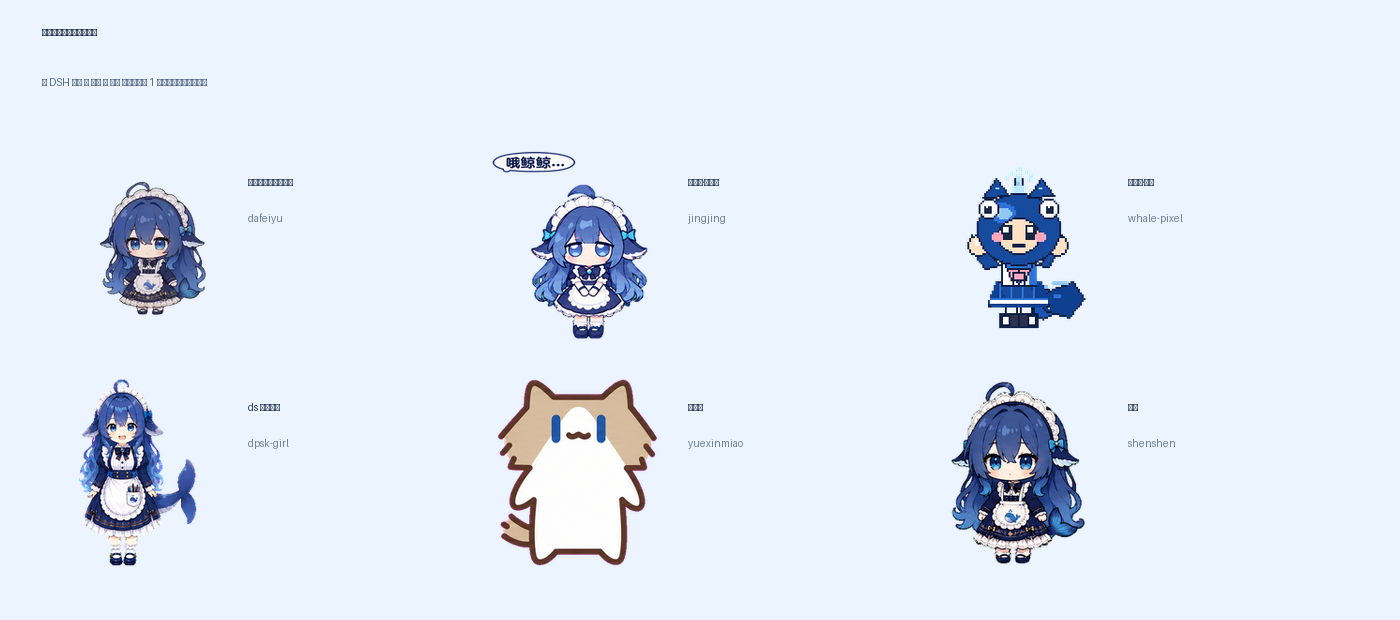
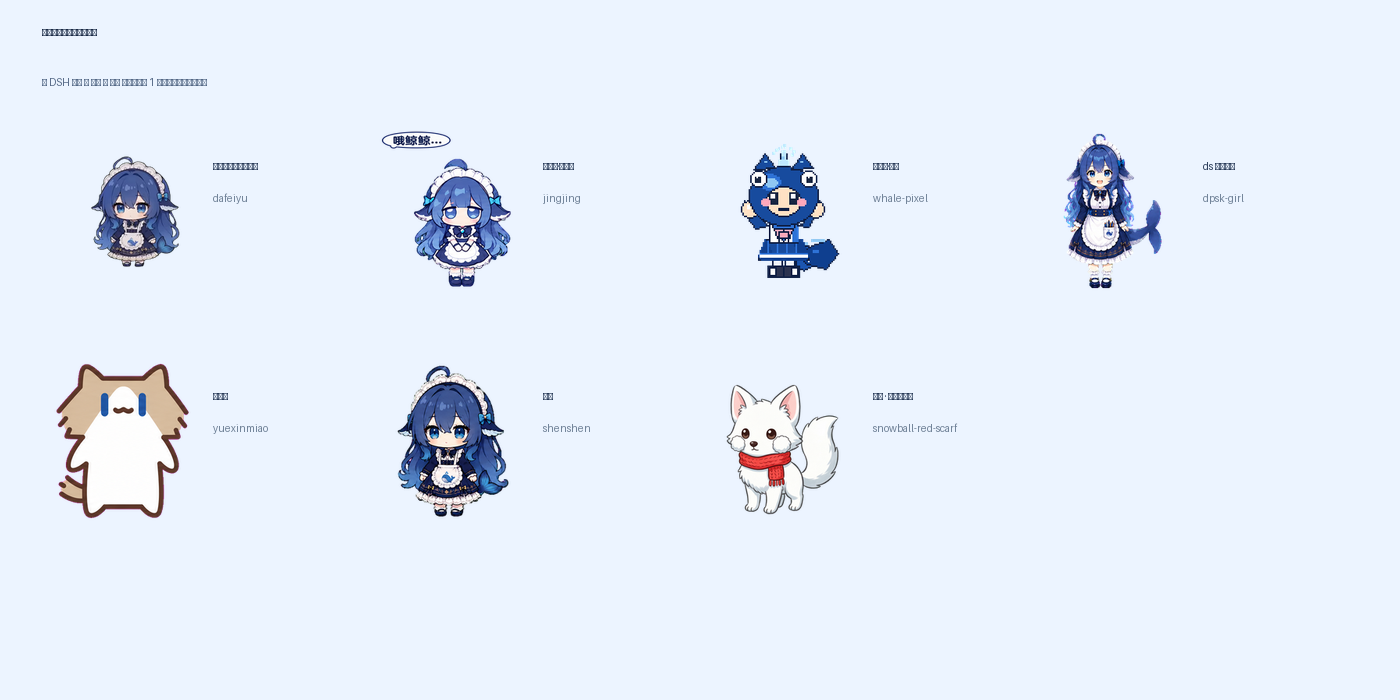
Add snowball-red-scarf AI-assisted community pack

diff --git a/pets/snowball-red-scarf/PROMPTS.md b/pets/snowball-red-scarf/PROMPTS.md
@@ -1,0 +1,39 @@
+# Generation prompts
+
+Model: qwen-image-2.0 · seed: 73421 · 1024×1024 · prompt extension disabled.
+
+## idle
+
+Original desktop pet character, a very cute chibi white arctic fox wearing a bright crimson red knitted scarf with two short ends, large triangular ears with pale pink interiors, fluffy white cheeks, round glossy dark brown eyes, tiny dark nose, short rounded legs and large fluffy white tail curving to its right. Clean charcoal gray outline, flat warm-white coloring with pale cool gray shading, polished Japanese kawaii game sprite illustration. Full body, front three-quarter view, relaxed standing idle pose, both paws down. One single character centered with generous empty margins, no ground shadow. Uniform solid vivid green #00FF00 background for chroma key. No green anywhere on the fox. No text, no lettering, no logo, no panels, no grid. Consistent simple readable silhouette.
+
+## run_a
+
+Original desktop pet character, a very cute chibi white arctic fox wearing a bright crimson red knitted scarf with two short ends, large triangular ears with pale pink interiors, fluffy white cheeks, round glossy dark brown eyes, tiny dark nose, short rounded legs and large fluffy white tail. Clean charcoal gray outline, flat warm-white coloring with pale cool gray shading, polished Japanese kawaii game sprite illustration. Full body,strict side profile facing RIGHT, running stride with front legs reaching forward and rear legs reaching backward, tail streaming behind toward left. One single character centered with generous empty margins, no ground shadow. Uniform solid vivid green #00FF00 background for chroma key. No green anywhere on the fox. No text, no lettering, no logo, no panels, no grid. Consistent simple readable silhouette.
+
+## run_b
+
+Original desktop pet character, a very cute chibi white arctic fox wearing a bright crimson red knitted scarf with two short ends, large triangular ears with pale pink interiors, fluffy white cheeks, round glossy dark brown eyes, tiny dark nose, short rounded legs and large fluffy white tail. Clean charcoal gray outline, flat warm-white coloring with pale cool gray shading, polished Japanese kawaii game sprite illustration. Full body,strict side profile facing RIGHT, running stride with front legs tucked under chest and rear legs tucked beneath body, tail streaming behind toward left. One single character centered with generous empty margins, no ground shadow. Uniform solid vivid green #00FF00 background for chroma key. No green anywhere on the fox. No text, no lettering, no logo, no panels, no grid. Consistent simple readable silhouette.
+
+## wave
+
+Original desktop pet character, a very cute chibi white arctic fox wearing a bright crimson red knitted scarf with two short ends, large triangular ears with pale pink interiors, fluffy white cheeks, round glossy dark brown eyes, tiny dark nose, short rounded legs and large fluffy white tail. Clean charcoal gray outline, flat warm-white coloring with pale cool gray shading, polished Japanese kawaii game sprite illustration. Full body,front three-quarter view, cheerful greeting pose, standing on hind legs with one front paw raised beside cheek to wave hello, smile. One single character centered with generous empty margins, no ground shadow. Uniform solid vivid green #00FF00 background for chroma key. No green anywhere on the fox. No text, no lettering, no logo, no panels, no grid. Consistent simple readable silhouette.
+
+## jump
+
+Original desktop pet character, a very cute chibi white arctic fox wearing a bright crimson red knitted scarf with two short ends, large triangular ears with pale pink interiors, fluffy white cheeks, round glossy dark brown eyes, tiny dark nose, short rounded legs and large fluffy white tail. Clean charcoal gray outline, flat warm-white coloring with pale cool gray shading, polished Japanese kawaii game sprite illustration. Full body,front three-quarter view, happy celebration leap with both front paws raised high, hind paws curled under, eyes closed joyfully. One single character centered with generous empty margins, no ground shadow. Uniform solid vivid green #00FF00 background for chroma key. No green anywhere on the fox. No text, no lettering, no logo, no panels, no grid. Consistent simple readable silhouette.
+
+## failed
+
+Original desktop pet character, a very cute chibi white arctic fox wearing a bright crimson red knitted scarf with two short ends, large triangular ears with pale pink interiors, fluffy white cheeks, round glossy dark brown eyes, tiny dark nose, short rounded legs and large fluffy white tail. Clean charcoal gray outline, flat warm-white coloring with pale cool gray shading, polished Japanese kawaii game sprite illustration. Full body,front three-quarter view, sitting sadly, head lowered slightly, ears softly drooped, eyes downcast, tail curled around feet. One single character centered with generous empty margins, no ground shadow. Uniform solid vivid green #00FF00 background for chroma key. No green anywhere on the fox. No text, no lettering, no logo, no panels, no grid. Consistent simple readable silhouette.
+
+## waiting
+
+Original desktop pet character, a very cute chibi white arctic fox wearing a bright crimson red knitted scarf with two short ends, large triangular ears with pale pink interiors, fluffy white cheeks, round glossy dark brown eyes, tiny dark nose, short rounded legs and large fluffy white tail. Clean charcoal gray outline, flat warm-white coloring with pale cool gray shading, polished Japanese kawaii game sprite illustration. Full body,front three-quarter view, sitting patiently upright with front paws together, eyes looking upward expectantly, tail wrapped beside body. One single character centered with generous empty margins, no ground shadow. Uniform solid vivid green #00FF00 background for chroma key. No green anywhere on the fox. No text, no lettering, no logo, no panels, no grid. Consistent simple readable silhouette.
+
+## working
+
+Original desktop pet character, a very cute chibi white arctic fox wearing a bright crimson red knitted scarf with two short ends, large triangular ears with pale pink interiors, fluffy white cheeks, round glossy dark brown eyes, tiny dark nose, short rounded legs and large fluffy white tail. Clean charcoal gray outline, flat warm-white coloring with pale cool gray shading, polished Japanese kawaii game sprite illustration. Full body,front three-quarter view, leaning forward focused, both front paws typing on a tiny dark gray laptop in front, eyes looking down at screen. One single character centered with generous empty margins, no ground shadow. Uniform solid vivid green #00FF00 background for chroma key. No green anywhere on the fox. No text, no lettering, no logo, no panels, no grid. Consistent simple readable silhouette.
+
+## review
+
+Original desktop pet character, a very cute chibi white arctic fox wearing a bright crimson red knitted scarf with two short ends, large triangular ears with pale pink interiors, fluffy white cheeks, round glossy dark brown eyes, tiny dark nose, short rounded legs and large fluffy white tail. Clean charcoal gray outline, flat warm-white coloring with pale cool gray shading, polished Japanese kawaii game sprite illustration. Full body,front three-quarter view, curious inspection pose, holding a small magnifying glass beside one eye, concentrating with head tilted. One single character centered with generous empty margins, no ground shadow. Uniform solid vivid green #00FF00 background for chroma key. No green anywhere on the fox. No text, no lettering, no logo, no panels, no grid. Consistent simple readable silhouette.

diff --git a/pets/snowball-red-scarf/NOTICE.md b/pets/snowball-red-scarf/NOTICE.md
@@ -1,0 +1,25 @@
+# 雪团 · 红围巾白狐
+
+原创、非官方 DSH 桌宠包，按用户「戴红围巾的白色小狐狸」描述制作。
+未使用第三方角色、商标、官方吉祥物或网络素材。
+
+## 来源和制作
+
+- 日期：2026-10-20。
+- 图像：通过本机 Bailian CLI 的 `bl image generate` 调用 `qwen-image-2.0`，尺寸 1024×1024，seed 73421，关闭提示词扩写。
+- 每个动作单独生成；向右跑有两个步态源图，向左跑由向右跑镜像。
+- 图集处理：绿幕去底与边缘去色、RGBA 透明、尺寸和基线对齐、呼吸/倾斜/弹跳等二维补间；不是逐帧重新生成的手绘动画。
+- 图集：1536×1872，8列×9行，单格192×208，有效帧数6,8,8,4,5,8,6,6,6，共57帧。
+- 清单骨架来自本地 DSH `tools/import-codex-pet.py`；行为和气泡为本包定制。
+- 完整生成提示词见 `PROMPTS.md`。
+
+## 许可说明
+
+本包适配配置、文案及可许可的原创素材贡献按随附 MIT License 发布，保留此来源说明。
+素材由 AI 生成，不保证具备独立著作权、排他性或在所有司法辖区获得同等保护；MIT 仅覆盖贡献者实际能够许可的权利，不覆盖模型、生成服务或任何第三方权利，也不取代生成服务适用条款。
+
+## 使用
+
+把目录放入 `~/.dsh-desktop-pet/pets/` 后，在 DSH 设置 → 桌宠 → 形象 → 刷新，选择「雪团 · 红围巾白狐」。
+点击挥手，拖动跳跃；待机20秒/35秒分别播放向右/向左跑动作，60秒挥手。
+跑步是本包帧动画，是否在桌面移动由宿主引擎控制。

diff --git a/THIRD_PARTY_NOTICES.md b/THIRD_PARTY_NOTICES.md
@@ -35,6 +35,13 @@
 - 原始鲸鱼娘形象「上善无形」；本版本由 Shenshen Pet contributors 制作；**非商业**，再分发须署名 + 相同方式共享。
 - 与 DeepSeek / OpenAI / 角色原权利方无隶属或背书关系。
 
+## 雪团 · 红围巾白狐（`pets/snowball-red-scarf/`）
+
+- 来源：本仓库新增原创 AI 辅助形象，按用户描述制作（未使用第三方角色/商标/网络素材）。
+- 图像：本机 Bailian CLI `bl image generate` 调用 `qwen-image-2.0` 生成，逐动作单图 + 绿幕去底/补间拼图集；完整提示词见包内 `PROMPTS.md`。
+- 许可：包内配置/文案/可许可的原创贡献为 MIT（见包内 LICENSE / NOTICE.md）。
+- **注意**：AI 生成素材的独立著作权存在不确定性；MIT 只覆盖贡献者实际能许可的部分，不覆盖模型/生成服务/第三方权利，也不保证排他性。公开发布/商用前请自行评估。
+
 ## 对下游使用者的要求
 
 1. **逐包看许可**：`dafeiyu` 与 `shenshen` 的素材是 **非商业**；其余 MIT 包仍可能涉及角色/IP 权利，商用前请自行确认。

diff --git a/README.md b/README.md
@@ -30,6 +30,7 @@
 | `dpsk-girl` | ds 鲸鱼女仆 | LINNoot/dsh-co-pet（MIT） |
 | `yuexinmiao` | 月薪喵 | LINNoot/dsh-co-pet（MIT） |
 | `shenshen` | 深深 | schrieeeffer/shenshen-codex-pet（视觉 CC BY-NC-SA 4.0） |
+| `snowball-red-scarf` | 雪团 · 红围巾白狐 | 原创 AI 辅助（MIT；见包内 NOTICE，模型生成素材权利有不确定性） |
 
 在 **DSH 设置 → 桌宠 → 形象** 里选，或右键桌宠 → **更换形象**。约 1 秒热切换，不重启。
 
